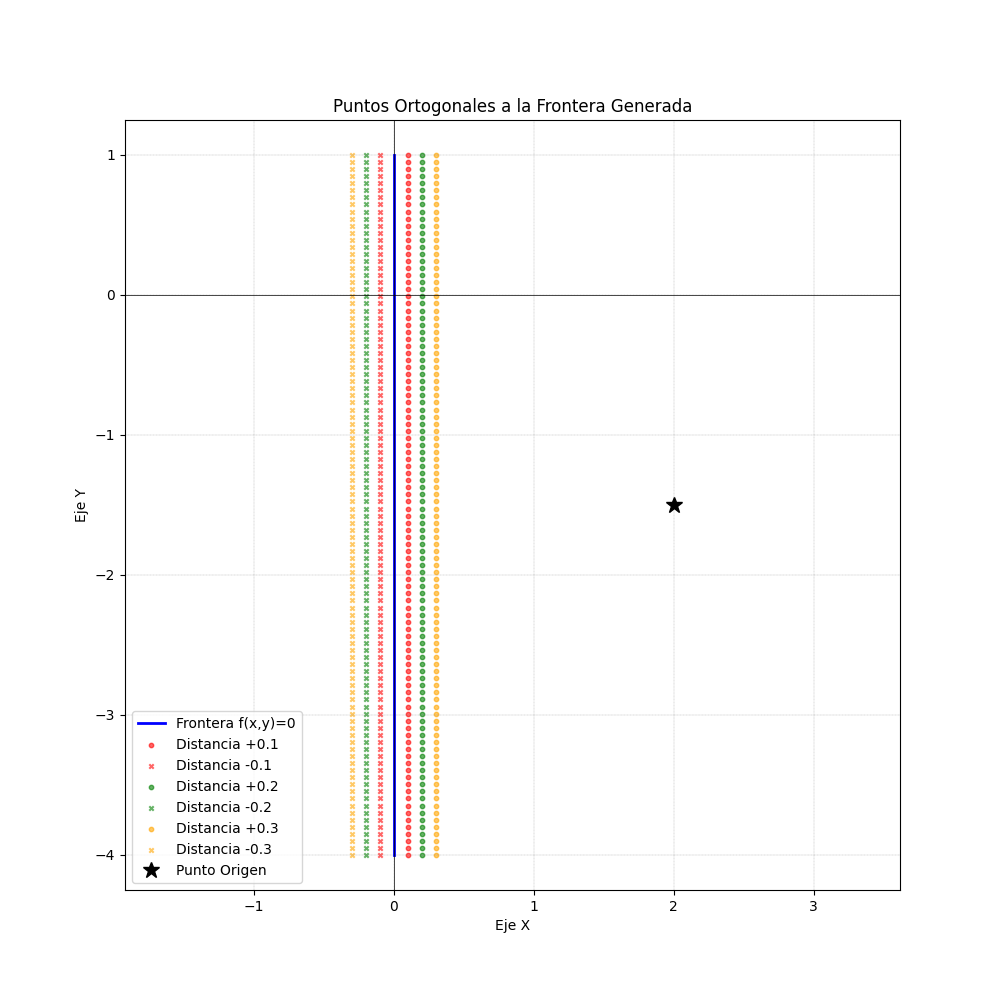
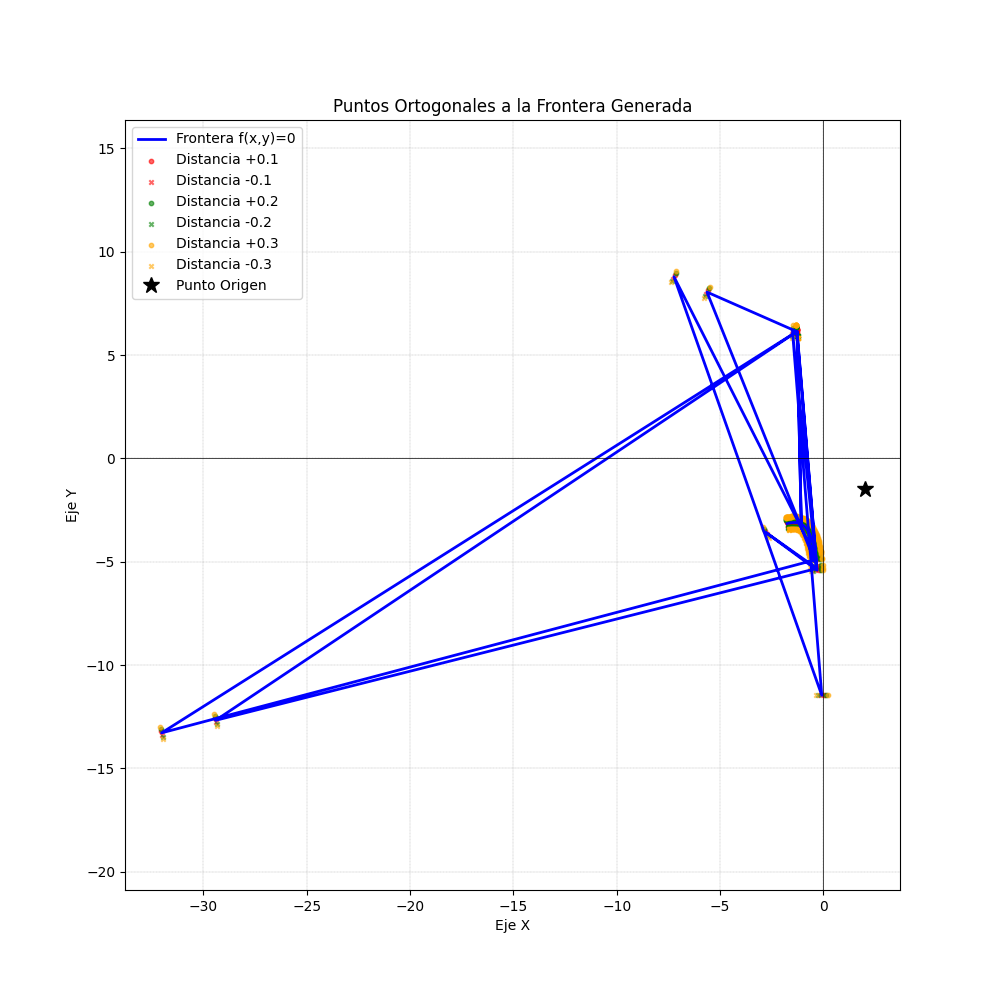
feat: metrics

diff --git a/genetico.py b/genetico.py
@@ -2,6 +2,9 @@ import multiprocessing
 import random
 import copy
 import joblib
+import time
+import psutil
+import os
 import numpy as np
 import warnings
 import matplotlib.pyplot as plt
@@ -322,48 +325,44 @@ def genetico(
     path_modelo,
     tam_poblacion=20,
     tam_elite=5,
-    generaciones=50,
+    generaciones=100,
     prob_cruce=0.8,
     prob_mutacion=0.2,
     profundidad_inicial=4,
 ):
-    # Generar dataset de entrenamiento con puntos aleatorios usando el modelo caja negra
+    # --- MÉTRICAS INICIALES ---
+    print(f"\n>>> Iniciando ejecución y test de rendimiento para: {path_modelo}")
+    if not os.path.exists("output"):
+        os.makedirs("output")
+        print("Carpeta 'output' creada.")
+
+    proceso = psutil.Process(os.getpid())
+    mem_inicial = proceso.memory_info().rss / (1024 * 1024)  # MB
+    start_time = time.time()
+
+    # Generar dataset de entrenamiento
     print(f"Generando dataset exploratorio para {path_modelo}...")
     bb = BlackBoxModel(path_modelo)
-
-    # Generar puntos de manera más distribuida para encontrar ambas clases
     p = puntos(bb)[0]
 
     print("\n=== INICIANDO ALGORITMO GENÉTICO ===")
-    # 1. Inicializar
     poblacion = inicializar_poblacion(
         tam_poblacion=tam_poblacion, profundidad_inicial=profundidad_inicial
     )
 
-    # 2. Bucle Generacional
     for gen in range(generaciones):
-        # Evaluar
         poblacion = evaluar_poblacion(poblacion, p, bb)
-
         mejor_fitness = poblacion[0][1]
-        print(
-            f"Generación {gen + 1}/{generaciones} | Mejor Fitness (Accuracy): {mejor_fitness:.4f}"
-        )
+        print(f"Generación {gen + 1}/{generaciones} | Mejor Fitness: {mejor_fitness:.4f}")
 
-        # Si encontramos el modelo perfecto
         if mejor_fitness >= 0.99:
             print("¡Solución óptima alcanzada!")
             break
 
         nueva_poblacion = []
-
-        # 3. Elitismo (Guardar los mejores)
         elite = poblacion[:tam_elite]
-        nueva_poblacion.extend(
-            [(ind, 0.0) for ind, _ in elite]
-        )  # Reseteamos fitness para la sig generacion
+        nueva_poblacion.extend([(ind, 0.0) for ind, _ in elite])
 
-        # 4. Cruzamiento y Mutación para rellenar la población
         while len(nueva_poblacion) < tam_poblacion:
             padre1 = seleccion_torneo(poblacion)
             padre2 = seleccion_torneo(poblacion)
@@ -387,34 +386,74 @@ def genetico(
 
         poblacion = nueva_poblacion
 
-    # Evaluación final
+    # --- EVALUACIÓN FINAL Y MÉTRICAS DE CIERRE ---
     poblacion = evaluar_poblacion(poblacion, p, bb)
-    mejor_individuo = poblacion[0]
+    mejor_arbol = poblacion[0][0]
+    mejor_fitness = poblacion[0][1]
+    
+    end_time = time.time()
+    mem_final = proceso.memory_info().rss / (1024 * 1024)
+    tiempo_total = end_time - start_time
+    uso_memoria = mem_final - mem_inicial
+    cpu_uso = psutil.cpu_percent(interval=1) # Corregido cpu_percent
+
     print("\n=== FIN DEL ALGORITMO ===")
-    print(f"Mejor Fitness Final: {mejor_individuo[1]:.4f}")
-    print(f"Ecuación Encontrada para la Frontera:\n{mejor_individuo[0]}")
-    return mejor_individuo[0], p
+    print(f"--- RESULTADOS PARA {path_modelo} ---")
+    print(f"Mejor Fitness Final: {mejor_fitness:.4f}")
+    print(f"Tiempo Total: {tiempo_total:.2f} s | Memoria: {uso_memoria:.2f} MB | CPU: {cpu_uso}%")
+    print(f"Ecuación:\n{mejor_arbol}")
+
+    # --- GENERACIÓN Y GUARDADO DE GRÁFICAS ---
+    nombre_base = os.path.basename(path_modelo).replace(".pkl", "")
+    
+    # 1. Gráfica de la Frontera (de arbol.py)
+    mejor_arbol.graf()
+    plt.title(f"Frontera Generada - {nombre_base}")
+    plt.savefig(f"output/frontera_{nombre_base}.png")
+    plt.close() # Importante cerrar para que no se solapen
+
+    # 2. Gráfica de Fitness/Puntos
+    graficar_fitness_resultado(mejor_arbol, p, distancias=[0.2, 0.4, 0.6], paso=0.15)
+    plt.title(f"Evaluación Fitness - {nombre_base}")
+    plt.savefig(f"output/fitness_{nombre_base}.png")
+    plt.close()
+
+    print(f"Gráficas guardadas en la carpeta 'output/' como frontera_{nombre_base}.png y fitness_{nombre_base}.png")
+    
+    return mejor_arbol, p
 
 
 if __name__ == "__main__":
-    # Ejecutamos el genético para el modelo A
-    print("\n----------------------------------------------------")
-    print("EJECUTANDO GENÉTICO PARA: blackbox_modelA.pkl")
-    print("----------------------------------------------------")
-    # Los parámetros: 20 individuos, 5 élite según las especificaciones
-    ag_A, point_A = genetico(
-        "blackbox_modelA.pkl", tam_poblacion=20, tam_elite=2, generaciones=20
-    )
-    ag_A.graf()
-    graficar_fitness_resultado(ag_A, point_A, distancias=[0.2, 0.4, 0.6], paso=0.15)
-    plt.show()
-    # Ejecutamos el genético para el modelo B
-    print("\n----------------------------------------------------")
-    print("EJECUTANDO GENÉTICO PARA: blackbox_modelB.pkl")
-    print("----------------------------------------------------")
-    ag_B, point_B = genetico(
-        "blackbox_modelB.pkl", tam_poblacion=20, tam_elite=2, generaciones=20
-    )
-    ag_B.graf()
-    graficar_fitness_resultado(ag_B, point_B, distancias=[0.2, 0.4, 0.6], paso=0.15)
-    plt.show()
+    # 1. Definición de los modelos a procesar
+    # Asegúrate de que estos archivos estén en la misma carpeta que el script
+    modelos_a_evaluar = ["blackbox_modelA.pkl", "blackbox_modelB.pkl"]
+    
+    print("====================================================")
+    print("INICIANDO EVALUACIÓN DE PRÁCTICA 3 - METAHEURÍSTICAS")
+    print("====================================================")
+
+    for modelo in modelos_a_evaluar:
+        try:
+            if not os.path.exists(modelo):
+                print(f"\n[!] Error: No se encuentra el archivo {modelo}. Saltando...")
+                continue
+            
+            # 2. Llamada única a la función principal
+            # Al llamar a genetico(), se ejecutan las métricas, se entrena,
+            # y se guardan las gráficas automáticamente en /output. [cite: 103, 107]
+            arbol_final, punto_inicio = genetico(
+                path_modelo=modelo, 
+                tam_poblacion=20,     # Parámetro según vuestra configuración
+                tam_elite=2,          # Elitismo configurado [cite: 168]
+                generaciones=100       # Número de iteraciones [cite: 184]
+            )
+            
+            print(f"\n[OK] Finalizado éxito: {modelo}")
+            print("-" * 50)
+
+        except Exception as e:
+            print(f"\n[!] Error crítico procesando {modelo}: {e}")
+
+    print("\n====================================================")
+    print("PROCESO COMPLETADO. Revisa la carpeta 'output' para las gráficas.")
+    print("====================================================")